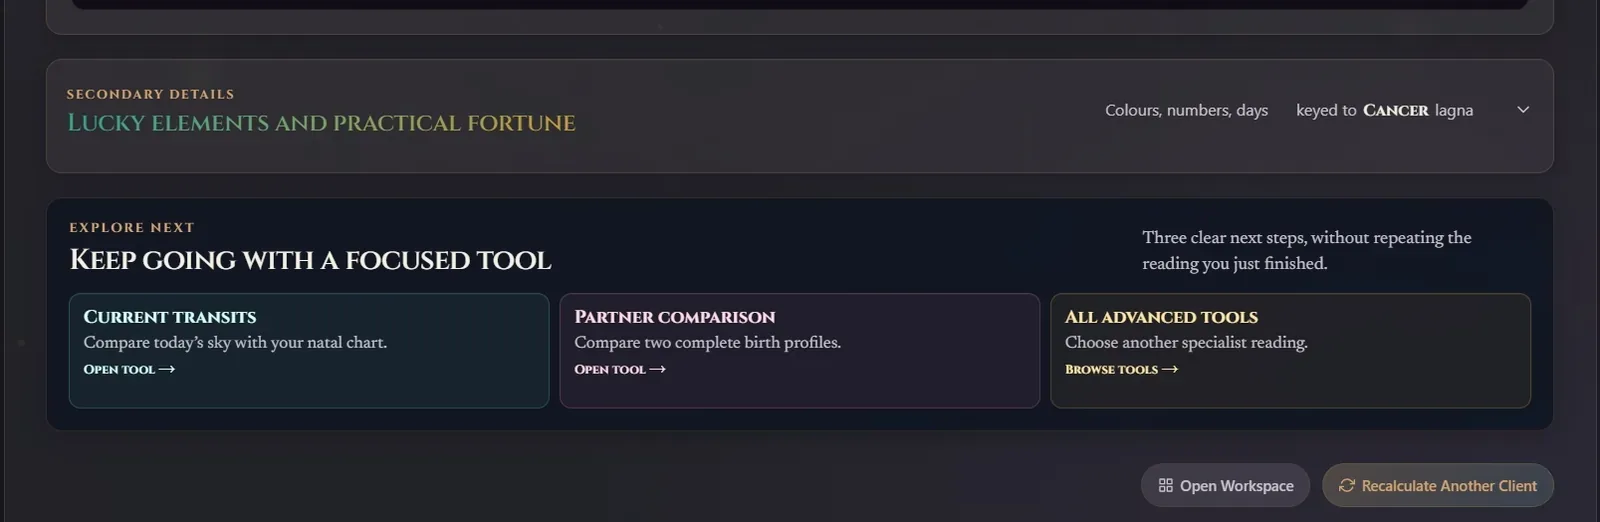
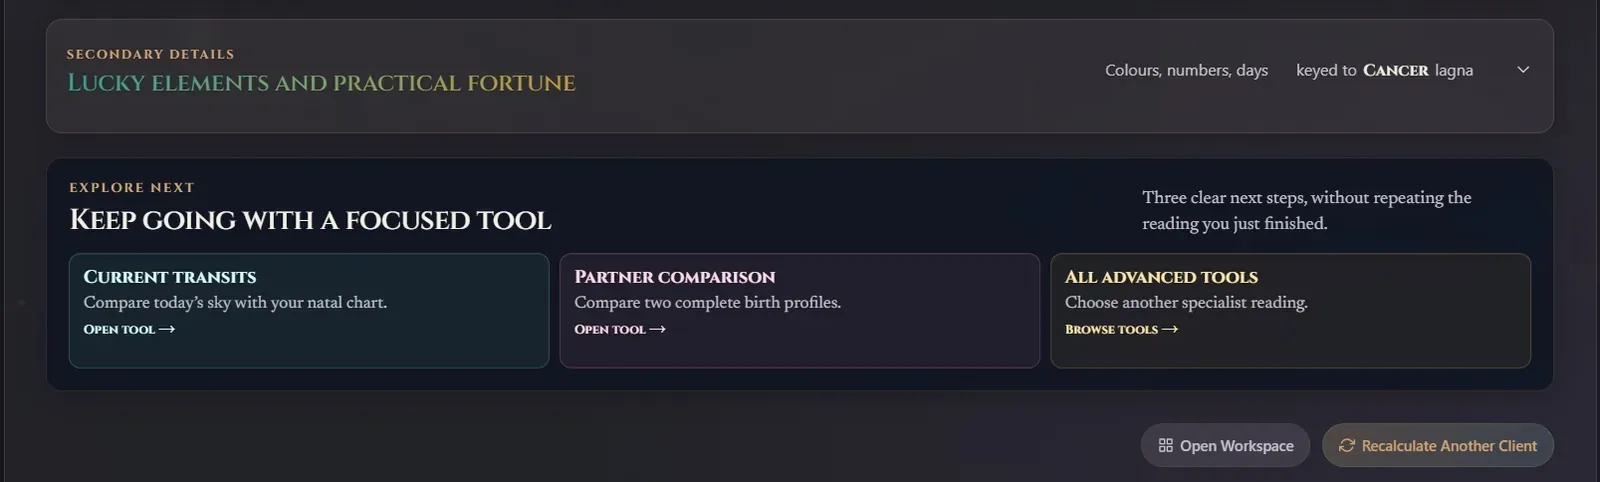
End every capture on a container boundary, not through an element
Six of the ten frames stopped mid-element, which in a layout where every other
edge is deliberate reads as carelessness rather than as a crop:

- lagna-atelier-chart: a floating tab pill sat on top of the three summary
  cards and covered their eyebrow labels. No crop keeps whole cards and loses
  the overlay, so the frame now starts below both, at the card titles.
- lagna-atelier-tools: a sliver of the panel above hung into the top edge.
- lagna-atelier: ended through the "Add Name to continue" line, and started one
  glyph into the wordmark ("AGNA ATELIER").
- lagna-atelier-report, lagna-atelier-ashtakavarga: ended in a hairline slice
  of the following card and of the enclosing panel edge.
- robust-health-workout: top nav cut mid-button, bottom sliced "Mark as Done"
  in half.
- robust-health-dashboard: the sticky nav sat across the middle of the frame,
  over the one-day-plan card, and carried the blur-redacted account row.
  Starting at the Up Next card removes the overlap and the redaction together.
- robust-health-onboarding: dropping the nav also drops the truncated sign-in
  button at the right edge.
- robust-health: started one glyph into the wordmark ("OBUST HEALTH").

Dropping app chrome that carried no evidence takes the dashboard capture from
44 KB to 21 KB. Aspect ratios also converge as a side effect -- seven of ten
now sit between 1.45 and 1.63 -- which is most of the way to the plate
normalisation that follows.

diff --git a/lib/content.ts b/lib/content.ts
@@ -103,8 +103,8 @@ export const content: SiteContent = {
           alt: "The Lagna Atelier chart builder: a four-step birth-details form beside a live sky preview panel.",
           caption:
             "A four-step birth-details form, with the sky preview resolving beside it as each field is entered. There is no submit step: the chart is computed in the browser as the form fills.",
-          width: 1530,
-          height: 995,
+          width: 1559,
+          height: 964,
         },
         {
           kind: "image",
@@ -113,7 +113,7 @@ export const content: SiteContent = {
           caption:
             "The computed wheel for a Cancer lagna, planetary glyphs placed across twelve houses. The three cards above it — first impression, the Mercury dasha running to April 2034, and the strongest planet — are selected from the chart's own matched findings.",
           width: 1528,
-          height: 1202,
+          height: 1052,
         },
         {
           kind: "image",
@@ -122,7 +122,7 @@ export const content: SiteContent = {
           caption:
             "Every house scored against the 28.1-bindu average rather than against a maximum, with the first house broken out at 92.6% of it. The footnote flags that these twelve total 367 against a 337 pool — a discrepancy reported rather than smoothed over.",
           width: 1571,
-          height: 1028,
+          height: 1001,
         },
         {
           kind: "image",
@@ -131,7 +131,7 @@ export const content: SiteContent = {
           caption:
             "Placements, calculation settings and dasha periods across the top. Below them, all twenty vargas from D1 to D60 and the fourteen matched findings, each behind its own view rather than stacked into one scrolling report.",
           width: 1545,
-          height: 994,
+          height: 961,
         },
         {
           kind: "image",
@@ -140,7 +140,7 @@ export const content: SiteContent = {
           caption:
             "Where a finished reading hands off: today's transits against the natal chart, a two-profile partner comparison, or the wider specialist list. Each continues from the reading rather than repeating it.",
           width: 1600,
-          height: 522,
+          height: 482,
         },
       ],
       // TODO: still worth recording the palm-reading flow as a clip — it is the
@@ -184,7 +184,7 @@ export const content: SiteContent = {
           alt: "The Robust Health landing page, showing the weekly programming pitch above counters for plans generated and workouts completed.",
           caption:
             "The public landing page. Everything past it sits behind sign-in, so the plates below are captured from inside an account.",
-          width: 1550,
+          width: 1569,
           height: 963,
         },
         {
@@ -194,7 +194,7 @@ export const content: SiteContent = {
           caption:
             "Two ways in: a three-to-five minute questionnaire that generates a tailored first week, or a ready-made programme with optional body details for nutrition targets. Switching between them keeps whatever has already been entered.",
           width: 1041,
-          height: 775,
+          height: 713,
         },
         {
           kind: "image",
@@ -203,7 +203,7 @@ export const content: SiteContent = {
           caption:
             "The next session up front, the week's five workouts listed beside it, and the active Push/Pull/Legs programme below with its day count, calorie and sleep targets.",
           width: 1098,
-          height: 989,
+          height: 631,
         },
         {
           kind: "image",
@@ -212,7 +212,7 @@ export const content: SiteContent = {
           caption:
             "One exercise at a time — three of seven here — with a form video above it. Sets are tapped off individually, and rest, RPE and tempo are carried per exercise rather than set once for the session.",
           width: 728,
-          height: 1284,
+          height: 1091,
         },
         {
           kind: "image",
